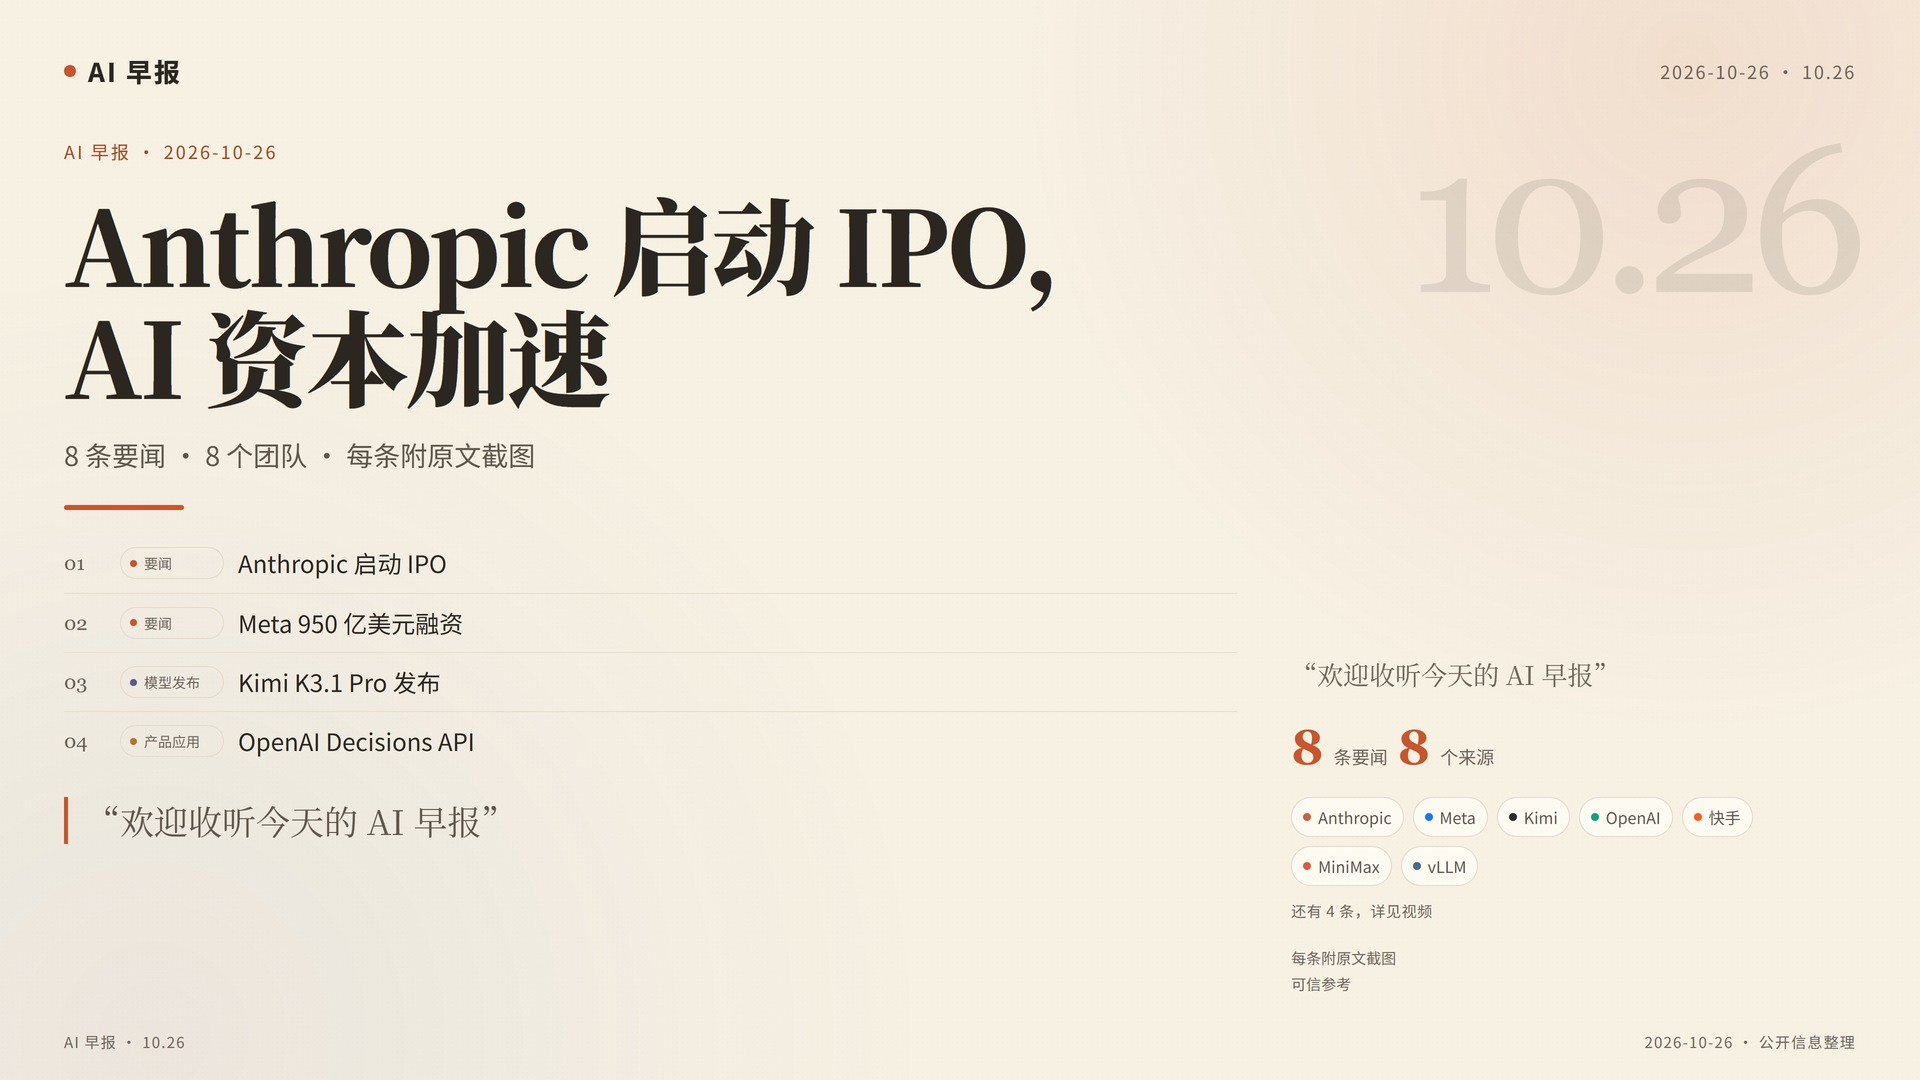
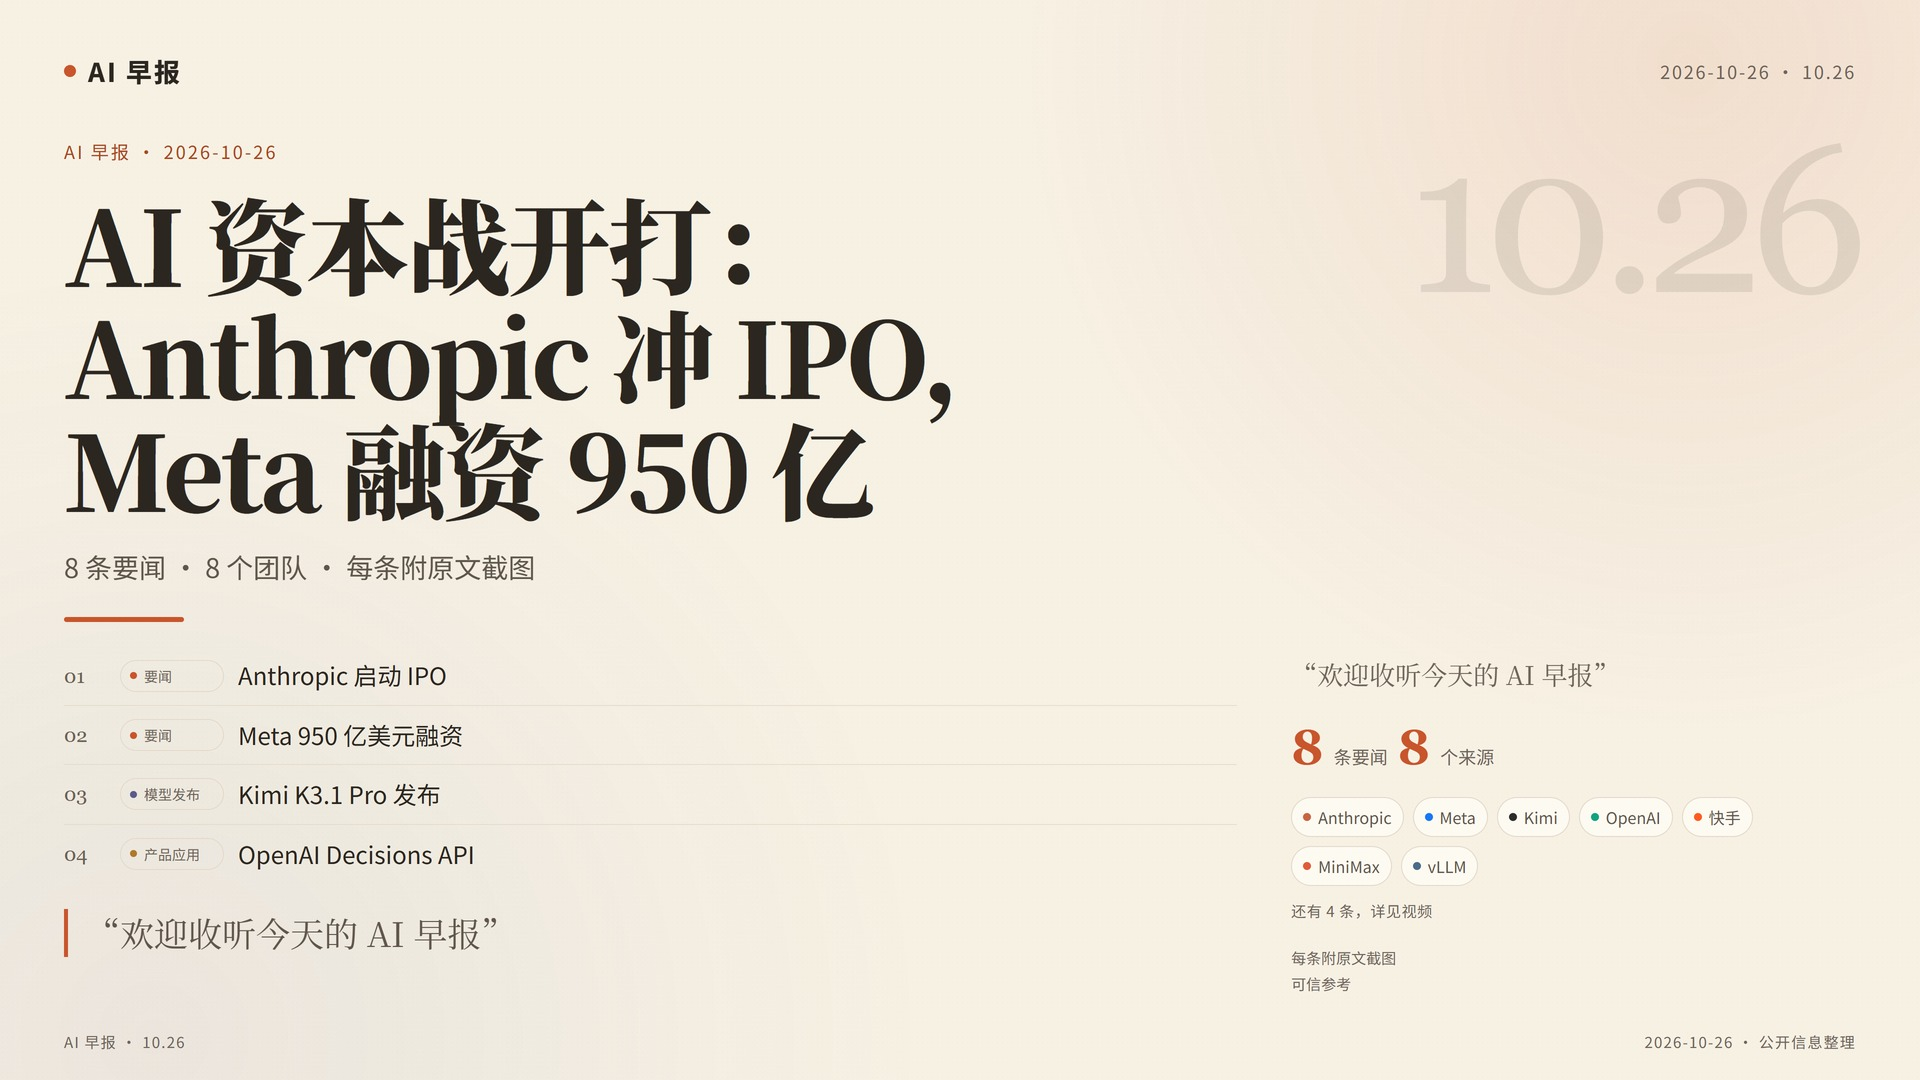
feat: 封面钩子标题与 B 站合集流程
- cover.headline 支持独立钩子大标题，未填回退 title
- 更新封面预览与 content schema
- B 站文档补充 season add 入合集流程
- 记录 2026-10-28 上传与合集实测

diff --git a/ai-news-briefing/scaffold/scripts/make_covers.py b/ai-news-briefing/scaffold/scripts/make_covers.py
@@ -64,7 +64,7 @@ def build_html(content: dict, variant: str, project: Path) -> str:
     meta = content.get("meta", {})
     date = meta.get("date", cover.get("kicker", ""))
     issue = meta.get("issue", cover.get("issueStamp", ""))
-    title = cover.get("title", "")
+    title = cover.get("headline") or cover.get("title", "")
     subtitle = cover.get("subtitle", "")
     kicker = cover.get("kicker", f"AI 早报 · {date}")
     caption = cover.get("caption", "欢迎收听今天的 AI 早报")

diff --git a/ai-news-briefing/SKILL.md b/ai-news-briefing/SKILL.md
@@ -42,7 +42,7 @@ python ../ai-news-briefing/scripts/verify_render.py out/ai_brief_4k.mp4
 1. **采集候选**：`python scripts/collect_daily.py --top 20 --recommend 8`。合并 ai-news-radar、AI HOT、follow-builders、OpenAI/DeepMind RSS，输出去重后的 `out/daily/candidates-<date>.json|md`。门槛：候选池 ≥ 100，推荐里至少 2 条官方确认。
 2. **选稿**：从 `recommended` 里选 6–10 条。每条必须有可打开、可截图的原文页；优先官方公告、模型发布、产品更新；过滤周报/日报/观点文；不为时长删新闻。
 3. **证据截图**：写 `assets/evidence/evidence_plan.json`（字段见 `references/pipeline.md`），运行 `capture_evidence.py`。每张图必须能看到标题或正文；官方页不可截时用 IT之家、界面新闻、36氪、ITBear 等媒体报道，`label` 写 `媒体报道`。
-4. **写稿**：只使用截图正文和候选摘要里的事实；每条 1–2 句旁白、2 张卡片；写 `content.json`（schema 见 `references/content-schema.md`）；来源行写 `来源 · 域名 · 原文 <日期>`，截图脚注写 `截取 <日期>`。
+4. **写稿**：只使用截图正文和候选摘要里的事实；每条 1–2 句旁白、2 张卡片；写 `content.json`（schema 见 `references/content-schema.md`）；来源行写 `来源 · 域名 · 原文 <日期>`，截图脚注写 `截取 <日期>`。封面图的大标题单独写 `cover.headline`：用“冲突/结果/数字”做钩子（如“AI 资本战开打：…”），不要直接复用视频主标题，也不能编造数字。
 5. **构建**：`python build.py --speed 1.68`；首次加 `--force-tts`，改文案但复用配音时用 `--reuse-tts --reuse-master`。输出 `index.html`、`assets/audio/mix.wav`、`assets/audio/timeline.json`，并自动生成 `out/covers/cover_16x9.png|jpg` 与 `cover_4x3.png|jpg`；加 `--no-covers` 可跳过。
 6. **渲染与验收**：check → snapshot → render high → `verify_render.py`。门槛：check 0 error；快照里标题和来源截图看得清；ffprobe 确认 3840×2160 / 30fps / AAC 48k；点击音峰值 ≥ 0.10；两张封面尺寸正确（16:9 1920×1080，4:3 1440×1080）。
 

diff --git a/README.md b/README.md
@@ -33,6 +33,7 @@
 
 - `out/covers/cover_16x9.png|jpg`：1920×1080，适合 B 站等横版平台
 - `out/covers/cover_4x3.png|jpg`：1440×1080，适合公众号/其他位置
+- 大标题优先读 `cover.headline`，用“冲突/结果/数字”做钩子，不直接复用视频主标题；没填时回退 `cover.title`
 - 16:9 显示前 4 条索引 + “还有 N 条”，4:3 列出全部 8 条
 - JPG 单张 < 5MB，满足 B 站封面要求
 
@@ -77,7 +78,7 @@ python ai-news-briefing/scripts/verify_render.py out/ai_brief_4k.mp4
 
 ## B 站发布（可选）
 
-可以用 [biliup](https://github.com/biliup/biliup) 自动投稿：先在本机 `biliup login` 扫码登录，再用 `biliup upload` 传视频、标题、分区、标签和 16:9 封面。默认只做 dry-run 预览，用户明确说“发”再执行；`cookies.json` 不进仓库。详见 `ai-news-briefing/references/bilibili.md`。
+可以用 [biliup](https://github.com/biliup/biliup) 自动投稿：先在本机扫码登录，再用 `biliup upload` 传视频、标题、分区、标签和 16:9 封面；上传成功后用 `biliup season add --vid <BV> <SECTION_ID>` 加入“AI早报”合集的“正片”小节。默认只做 dry-run 预览，用户明确说“发”再执行；`cookies.json` 不进仓库。详见 `ai-news-briefing/references/bilibili.md`。
 
 ## 已验证
 
@@ -85,6 +86,7 @@ python ai-news-briefing/scripts/verify_render.py out/ai_brief_4k.mp4
 - 实测成片：3840×2160 / 30fps / H.264 + AAC 48k / 58.434s，9 个切换点点击音峰值 ≈ 0.475，静音段 0.003。
 - 采集实测：单日 200+ 条候选，去重后 227 条，官方/多源/单源三档可信度标注。
 - 封面实测：16:9 1920×1080、4:3 1440×1080，JPG 单张约 0.2MB。
+- B 站实测：biliup 1.3.4 上传 4K 成片成功，并加入“AI早报”合集“正片”小节（2026-10-28）。
 
 ## 第三方与版权
 

diff --git a/ai-news-briefing/references/bilibili.md b/ai-news-briefing/references/bilibili.md
@@ -37,13 +37,32 @@ biliup -u cookies.json upload out/hf_news_1026_4k.mp4 `
 - 分区 `tid` 选错会影响推荐；AI 资讯通常选科技/数码相关分区，拿不准让用户确认。
 - 定时投稿用 biliup 的定时参数（以 `upload --help` 为准）。
 
+## 加入合集（必做）
+
+上传成功后，用 BV 号把稿件加入“AI早报”合集的“正片”小节：
+
+```powershell
+# 1) 查自己的合集和小节 ID
+biliup -u cookies.json season list
+
+# 2) 上传成功后加入小节（<BV> 替换为上传返回的 BV 号）
+biliup -u cookies.json season add --vid <BV> <SECTION_ID>
+
+# 3) 确认小节里已有稿件
+biliup -u cookies.json season sections <SEASON_ID>
+```
+
+- 合集 ID 和小节 ID 在 `season list` 输出里；每个账号不同，不要硬编码到公共脚本。
+- 合集加入失败不影响稿件本身，但要在日志里明确记录，不能当成发布成功。
+- 2026-10-28 实测：`biliup 1.3.4` 上传 4K 成片成功，随后 `season add` 加入“正片”小节成功；上传耗时 63.66s。
+
 ## 风险与边界
 
 - B 站有上传风控，短时间频繁投稿可能返回 `601 上传视频过快`；不要批量并发。
 - `cookies.json` 是账号凭证：只放本地，不提交 Git，不贴聊天记录。
 - 社区接口可能随 B 站改版失效；biliup 需要保持更新。
 - **默认不自动发布**：先生成封面、标题、简介、标签和 SRT，给用户 dry-run 预览；用户明确说“发”再执行上传。
-- 目前 skill 只提供这份操作说明；`publish_bilibili.py` 包装脚本尚未加入，需要时再实现并做真实登录联调。
+- 目前 skill 只提供这份操作说明；`publish_bilibili.py` 包装脚本尚未加入。实际流程已跑通：Web 扫码登录 → `biliup upload` → `biliup season add`。
 
 ## 为什么不用官方开放平台
 

diff --git a/ai-news-briefing/references/content-schema.md b/ai-news-briefing/references/content-schema.md
@@ -45,7 +45,8 @@
 |---|---|
 | `id` | 必须是 `cover` |
 | `kicker` | 左上角小字 |
-| `title` / `subtitle` | 主标题、副标题 |
+| `title` / `subtitle` | 视频封面屏主标题、副标题 |
+| `headline` | 封面图专用钩子标题；不填时回退 `title`。必须基于事实，不能编造数字 |
 | `caption` | 底部字幕条 |
 | `narration` | 开场旁白，通常 30–50 字 |
 | `issueStamp` | 背景大号日期，如 `10.26` |
